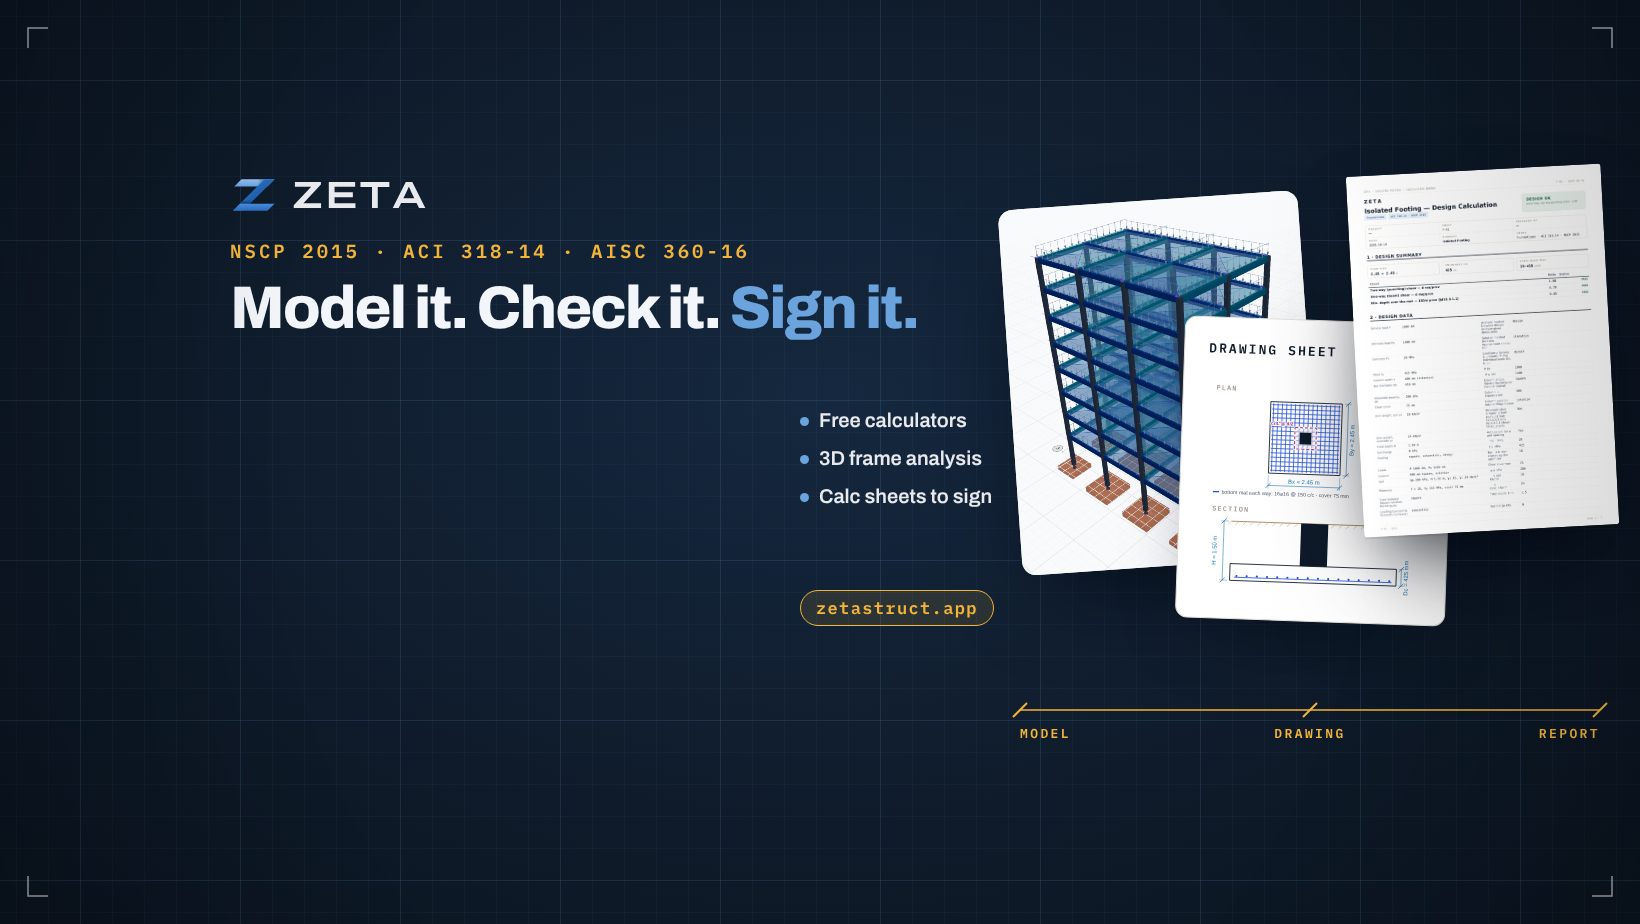
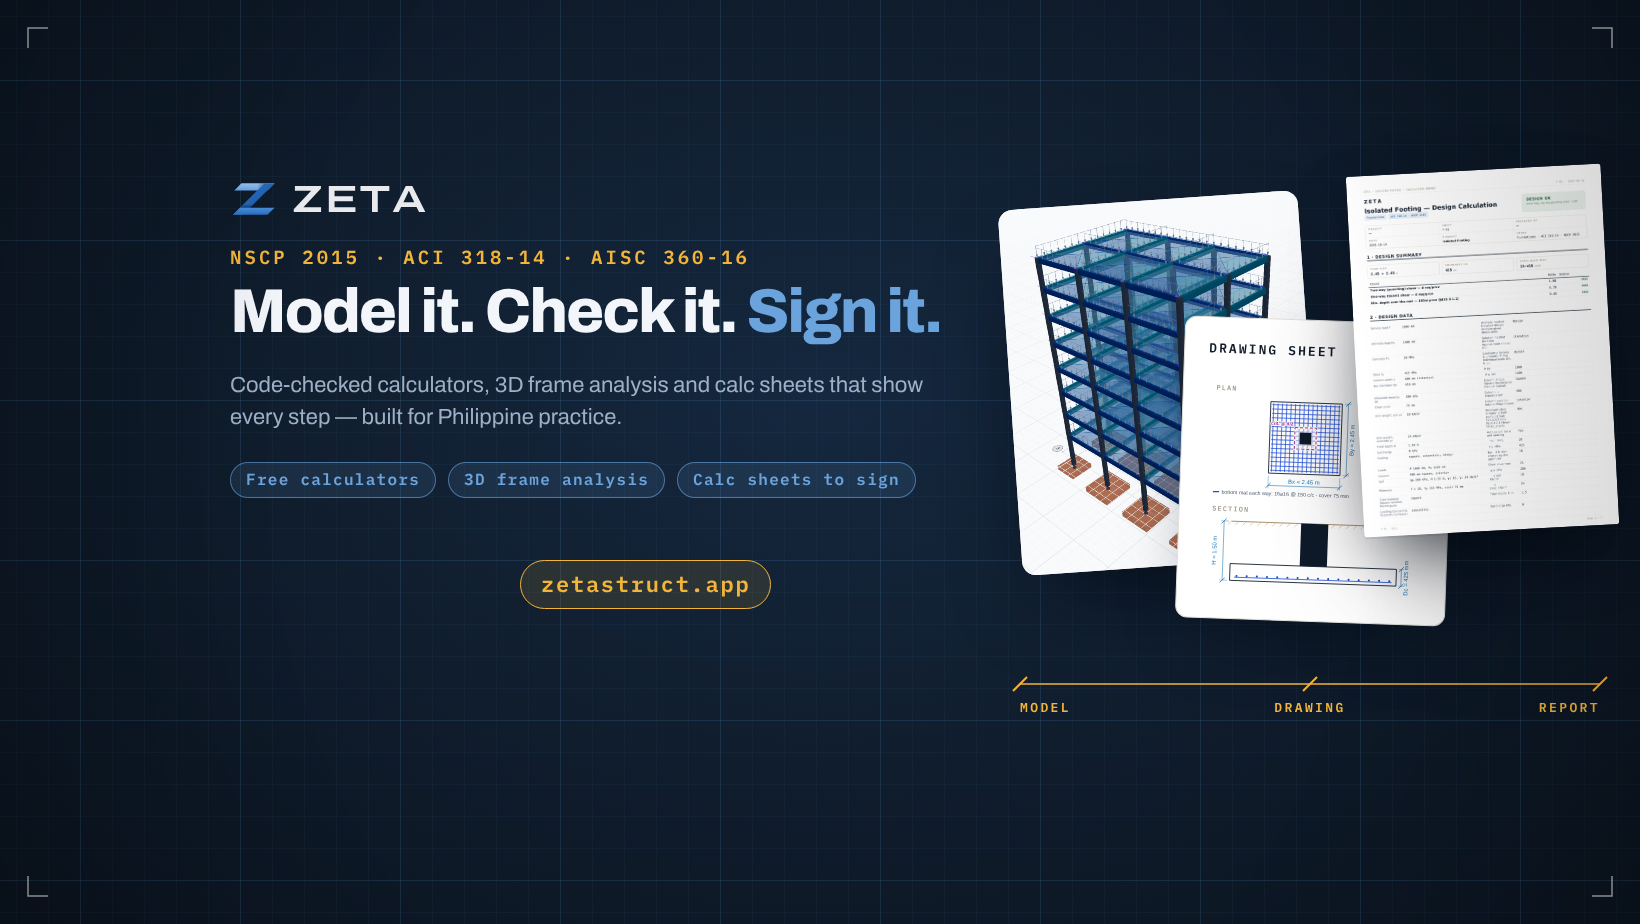
fix(social): cover fills the strip the phone actually shows
The second cover-editor screenshot shows the 16:9 upload as a strip
(y ~142-732) with a smaller profile circle (r ~218 at 255,716) in its
lower-left corner, so the layout that dodged the larger circle from the
first screenshot left a big empty patch under the headline. Tagline,
feature tags and a larger URL chip now fill it; the MODEL/DRAWING/REPORT
line moves up inside the strip.

Claude-Session: https://claude.ai/code/session_01Fup9Cj4dnSLzJ4BkLUT2yk

diff --git a/scripts/showreel/social/set2.js b/scripts/showreel/social/set2.js
@@ -69,7 +69,6 @@ const POSTS = {
   cover(root) {
     const w = 1640, hh = 924
     darkGround(root); corners(root, w, hh, '#e8eaed', 28, 20)
-    const PIC = { x: 404, y: 742, r: 370 }
     // the artifacts, right: viewport → drawing → report, fanned like a desk
     const fan = h('div', { class: 'abs', style: { left: '1010px', top: '170px', width: '600px', height: '600px' } }, root)
     viewport(fan, 0, 30, 300, undefined, { transform: 'rotate(-4deg)', boxShadow: '0 40px 90px -30px rgba(3,8,16,.8)' })
@@ -77,23 +76,26 @@ const POSTS = {
     sh.cd.style.transform = 'rotate(2deg)'; sh.cd.style.zIndex = 2
     page(fan, '../cap/x/pdf/foundation_p1.png', 345, 0, 255, -3, 3)
     // the thread through them, an amber dimension line with its three stops
-    const ln = h('svg', { class: 'abs', width: 600, height: 60, style: { left: '1010px', top: '690px', zIndex: 5 } }, root)
+    const ln = h('svg', { class: 'abs', width: 600, height: 60, style: { left: '1010px', top: '664px', zIndex: 5 } }, root)
     h('line', { x1: 10, y1: 20, x2: 590, y2: 20, stroke: AMBER, 'stroke-width': 1.6 }, ln)
     ;[[10, 'MODEL'], [300, 'DRAWING'], [590, 'REPORT']].forEach(([x, t]) => {
       h('line', { x1: x - 7, y1: 27, x2: x + 7, y2: 13, stroke: AMBER, 'stroke-width': 2 }, ln)
       h('text', { x, y: 48, fill: AMBER, 'font-family': 'IBM Plex Mono', 'font-size': 13, 'font-weight': 600, 'letter-spacing': '2.4', 'text-anchor': x === 10 ? 'start' : x === 590 ? 'end' : 'middle' }, ln, t)
     })
-    // the words: upper-left above the circle, then a column right of it
+    // the words, left, filling the strip down to the circle. What the phone
+    // shows of this 16:9 upload is the band y ≈ 142–732, with the profile
+    // picture a circle of r ≈ 218 at (255, 716) in its lower-left corner.
     const L = 230
-    h('div', { class: 'abs', style: { left: L + 'px', top: '172px', display: 'flex', alignItems: 'center', gap: '16px', color: '#e8eaed' } }, root,
+    h('div', { class: 'abs', style: { left: L + 'px', top: '176px', display: 'flex', alignItems: 'center', gap: '16px', color: '#e8eaed' } }, root,
       LOGO('cv').replace('width="64" height="64"', 'width="46" height="46"') + WORD_SVG(26, 'currentColor'))
-    kicker(root, 'NSCP 2015 · ACI 318-14 · AISC 360-16', true, 240, L)
-    headline(root, `Model it. Check it. <span style="color:${ACC}">Sign it.</span>`, true, 278, 60, L, 780)
-    const C2 = 800
-    const list = h('div', { class: 'abs', style: { left: C2 + 'px', top: '410px', width: '190px', display: 'flex', flexDirection: 'column', gap: '16px' } }, root)
+    kicker(root, 'NSCP 2015 · ACI 318-14 · AISC 360-16', true, 246, L)
+    headline(root, `Model it. Check it. <span style="color:${ACC}">Sign it.</span>`, true, 282, 62, L, 780)
+    sub(root, 'Code-checked calculators, 3D frame analysis and calc sheets that show every step &mdash; built for Philippine practice.', true, 370, L, 720, 22)
+    const row = h('div', { class: 'abs', style: { left: L + 'px', top: '462px', display: 'flex', gap: '12px' } }, root)
     ;['Free calculators', '3D frame analysis', 'Calc sheets to sign'].forEach((t) =>
-      h('div', { style: { display: 'flex', gap: '10px', alignItems: 'center', fontSize: '20px', fontWeight: 600, color: '#e8eaed', whiteSpace: 'nowrap' } }, list, dot(ACC) + t))
-    chip(root, 'zetastruct.app', C2, 590, 'amber').style.fontSize = '17px'
+      h('span', { class: 'chip', style: { fontSize: '16px', padding: '7px 15px', background: 'rgba(107,164,220,.12)', border: '1.5px solid rgba(107,164,220,.6)', color: ACC } }, row, t))
+    chip(root, 'zetastruct.app', 520, 560, 'amber').style.cssText += ';font-size:22px;padding:9px 20px'
+    const PIC = { x: 255, y: 716, r: 218 }
     window.__pic = PIC
   },
 

diff --git a/branding/social/v2/CAPTIONS.md b/branding/social/v2/CAPTIONS.md
@@ -28,18 +28,17 @@ Shared tag block (add to any post):
 ---
 
 ## 00 — cover.png (Facebook cover, 1640×924 — 16:9)
-**Why 16:9:**
-- The Facebook mobile app shows the cover whole at about 16:9.
-- On mobile, the page's profile picture is a large circle over the lower-left third, roughly r ≈ 370 px centred at (404, 742) in cover pixels. That was measured off a screenshot of the actual page.
-- Desktop shows only the middle band, y ≈ 158–766.
+**How the phone shows it** (measured from screenshots of the real page's cover editor):
+- With this 16:9 upload, the phone shows the strip y ≈ 142–732.
+- In that view, the profile picture is a circle of r ≈ 218 at (255, 716), sitting in the strip's lower-left corner.
 
 **Layout:**
-- Everything sits inside that desktop band.
-- The lockup and the one-line headline sit above the circle.
-- The feature list and the URL sit to the right of the circle.
-- The artifacts are on the right.
+- The lockup, headline, tagline and feature tags fill the left of the strip, down to the circle.
+- The URL sits just right of the circle.
+- The artifacts and the MODEL → DRAWING → REPORT line are on the right.
+- Everything is inside the strip.
 
-Upload it as-is: no dragging needed. The 1640×624 version from the first pass is replaced.
+Upload it and save without dragging.
 
 **Cover description** (the text under the cover when it's clicked): Model it. Check it. Sign it. Zeta takes a structure from a 3D model to a drawing to a calc sheet you can sign, with every step shown and every clause cited. NSCP 2015 · ACI 318-14 · AISC 360-16. The calculators are free → zetastruct.app
 
